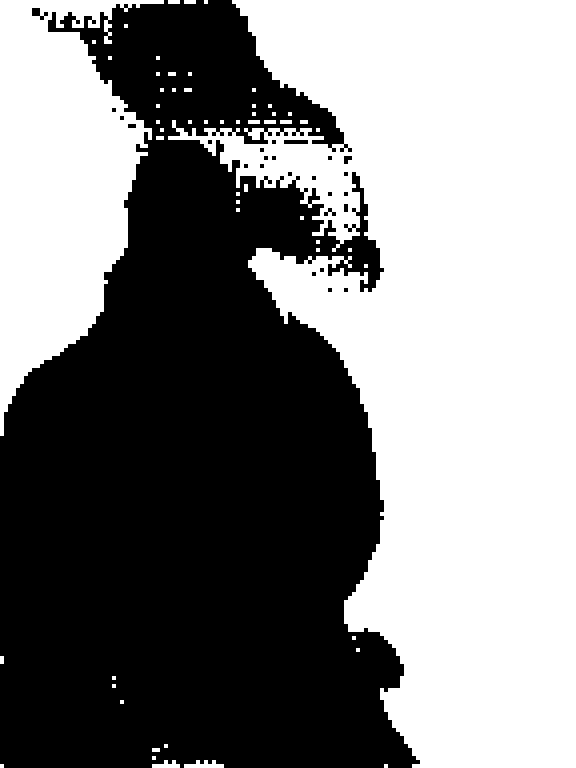
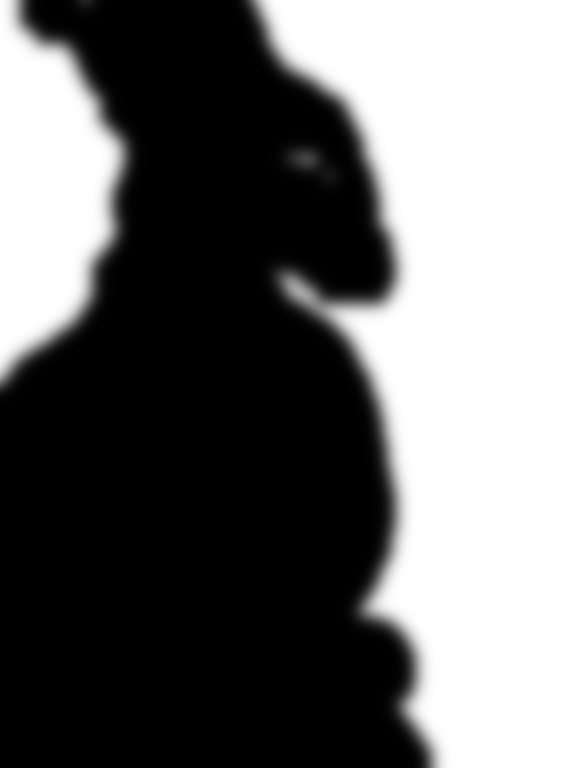
fix(segment): --grow/--feather to kill inpaint boundary artefacts
First real edit (corpus/segment.sh) showed rope/halo artefacts where the inpaint
repainted the subject's fringe: the inverted mask's white (repaint) region sat
directly on the subject boundary. The SAM mask itself was correct — the edit was.

Add two standard mask-for-inpaint ops to plakat segment: --grow N (dilate the
SELECTION before invert, so the repaint keeps a margin off the subject's fringe)
and --feather N (gaussian soft edge, so the inpaint blends instead of seaming).
Driver now uses --grow 12 --feather 8; mask verified (subject grew a margin, 256
gray levels at the edge). Inpaint stage still GPU (user re-runs).

Changed region(s): [[0.0, 0.0, 0.7812, 1.0], [0.25, 0.9688, 0.375, 1.0], [0.2812, 0.0938, 0.3438, 0.125]]

diff --git a/src/pipelines/sam.rs b/src/pipelines/sam.rs
@@ -103,11 +103,52 @@ fn to_tensor(img: &RgbImage, device: &Device) -> Result<Tensor> {
 /// 0 = excluded), sized to the original image. The mask is the SAM
 /// multimask-best (highest predicted IoU), which gives the cleanest single
 /// object for a single click while still honoring extra refine points.
+/// Grow white regions by `r` px (separable box dilation). Used to add a margin
+/// around the selection so a downstream edit doesn't repaint the subject's
+/// fringe (the cause of boundary artefacts).
+fn dilate(mask: &GrayImage, r: u32) -> GrayImage {
+    if r == 0 {
+        return mask.clone();
+    }
+    let (w, h) = (mask.width(), mask.height());
+    let mut tmp = GrayImage::new(w, h);
+    for y in 0..h {
+        for x in 0..w {
+            let (x0, x1) = (x.saturating_sub(r), (x + r).min(w - 1));
+            let mut v = 0u8;
+            for xx in x0..=x1 {
+                v = v.max(mask.get_pixel(xx, y).0[0]);
+                if v == 255 {
+                    break;
+                }
+            }
+            tmp.put_pixel(x, y, Luma([v]));
+        }
+    }
+    let mut out = GrayImage::new(w, h);
+    for y in 0..h {
+        for x in 0..w {
+            let (y0, y1) = (y.saturating_sub(r), (y + r).min(h - 1));
+            let mut v = 0u8;
+            for yy in y0..=y1 {
+                v = v.max(tmp.get_pixel(x, yy).0[0]);
+                if v == 255 {
+                    break;
+                }
+            }
+            out.put_pixel(x, y, Luma([v]));
+        }
+    }
+    out
+}
+
 pub async fn segment(
     in_path: &Path,
     out_path: &Path,
     points: &[PointPrompt],
     invert: bool,
+    grow: u32,
+    feather: u32,
     device: &Device,
 ) -> Result<()> {
     if points.is_empty() {
@@ -158,19 +199,35 @@ pub async fn segment(
     };
     let sel = masks.i(best)?; // (rh, rw) logits
 
-    // Threshold at 0 (the model's mask threshold) → binary, at the resized
-    // resolution, then nearest-resize back to the true original size.
+    // Threshold at 0 (the model's mask threshold) → the SELECTION binary mask at
+    // the resized resolution, then nearest-resize back to the original size.
     let vals: Vec<f32> = sel.flatten_all()?.to_vec1()?;
     let mut g = GrayImage::new(rw, rh);
     for (i, &v) in vals.iter().enumerate() {
-        let on = (v > 0.0) ^ invert;
-        g.put_pixel((i as u32) % rw, (i as u32) / rw, Luma([if on { 255 } else { 0 }]));
+        g.put_pixel((i as u32) % rw, (i as u32) / rw, Luma([if v > 0.0 { 255 } else { 0 }]));
     }
-    let mask = if (rw, rh) != (w0, h0) {
+    let mut mask = if (rw, rh) != (w0, h0) {
         image::imageops::resize(&g, w0, h0, image::imageops::FilterType::Nearest)
     } else {
         g
     };
+
+    // Grow the SELECTION first (before any invert) so an edit driven by this mask
+    // leaves a margin around the subject's fringe rather than repainting it — the
+    // fix for boundary artefacts (rope/halo where the inpaint meets the subject).
+    if grow > 0 {
+        mask = dilate(&mask, grow);
+    }
+    if invert {
+        for p in mask.pixels_mut() {
+            p.0[0] = 255 - p.0[0];
+        }
+    }
+    // Feather the edge into a soft grayscale falloff so the inpaint blends
+    // instead of showing a hard seam.
+    if feather > 0 {
+        mask = image::imageops::blur(&mask, feather as f32);
+    }
 
     if let Some(parent) = out_path.parent() {
         if !parent.as_os_str().is_empty() {

diff --git a/src/cli/segment.rs b/src/cli/segment.rs
@@ -28,6 +28,18 @@ pub struct SegmentArgs {
     /// for "change the background, keep the subject").
     #[arg(long, default_value_t = false)]
     pub invert: bool,
+
+    /// Grow the selection by N pixels (dilate) before output. For inpaint edits,
+    /// a small margin (~8–12) keeps the repaint off the subject's fringe — the
+    /// cure for rope/halo artefacts at the mask boundary. Applied before
+    /// `--invert`, so it always expands the *subject*.
+    #[arg(long, default_value_t = 0, value_name = "PX")]
+    pub grow: u32,
+
+    /// Feather the mask edge by N pixels (gaussian) for a soft inpaint blend
+    /// instead of a hard seam.
+    #[arg(long, default_value_t = 0, value_name = "PX")]
+    pub feather: u32,
 }
 
 /// Parse `X,Y`, `X,Y:fg`, or `X,Y:bg` into a point prompt (default foreground).
@@ -63,7 +75,16 @@ pub async fn run(args: SegmentArgs, device: Device) -> Result<()> {
         .map(|s| parse_point(s))
         .collect::<Result<_>>()?;
 
-    crate::pipelines::sam::segment(&args.input, &args.out, &points, args.invert, &device).await?;
+    crate::pipelines::sam::segment(
+        &args.input,
+        &args.out,
+        &points,
+        args.invert,
+        args.grow,
+        args.feather,
+        &device,
+    )
+    .await?;
 
     let n = points.len();
     println!(
